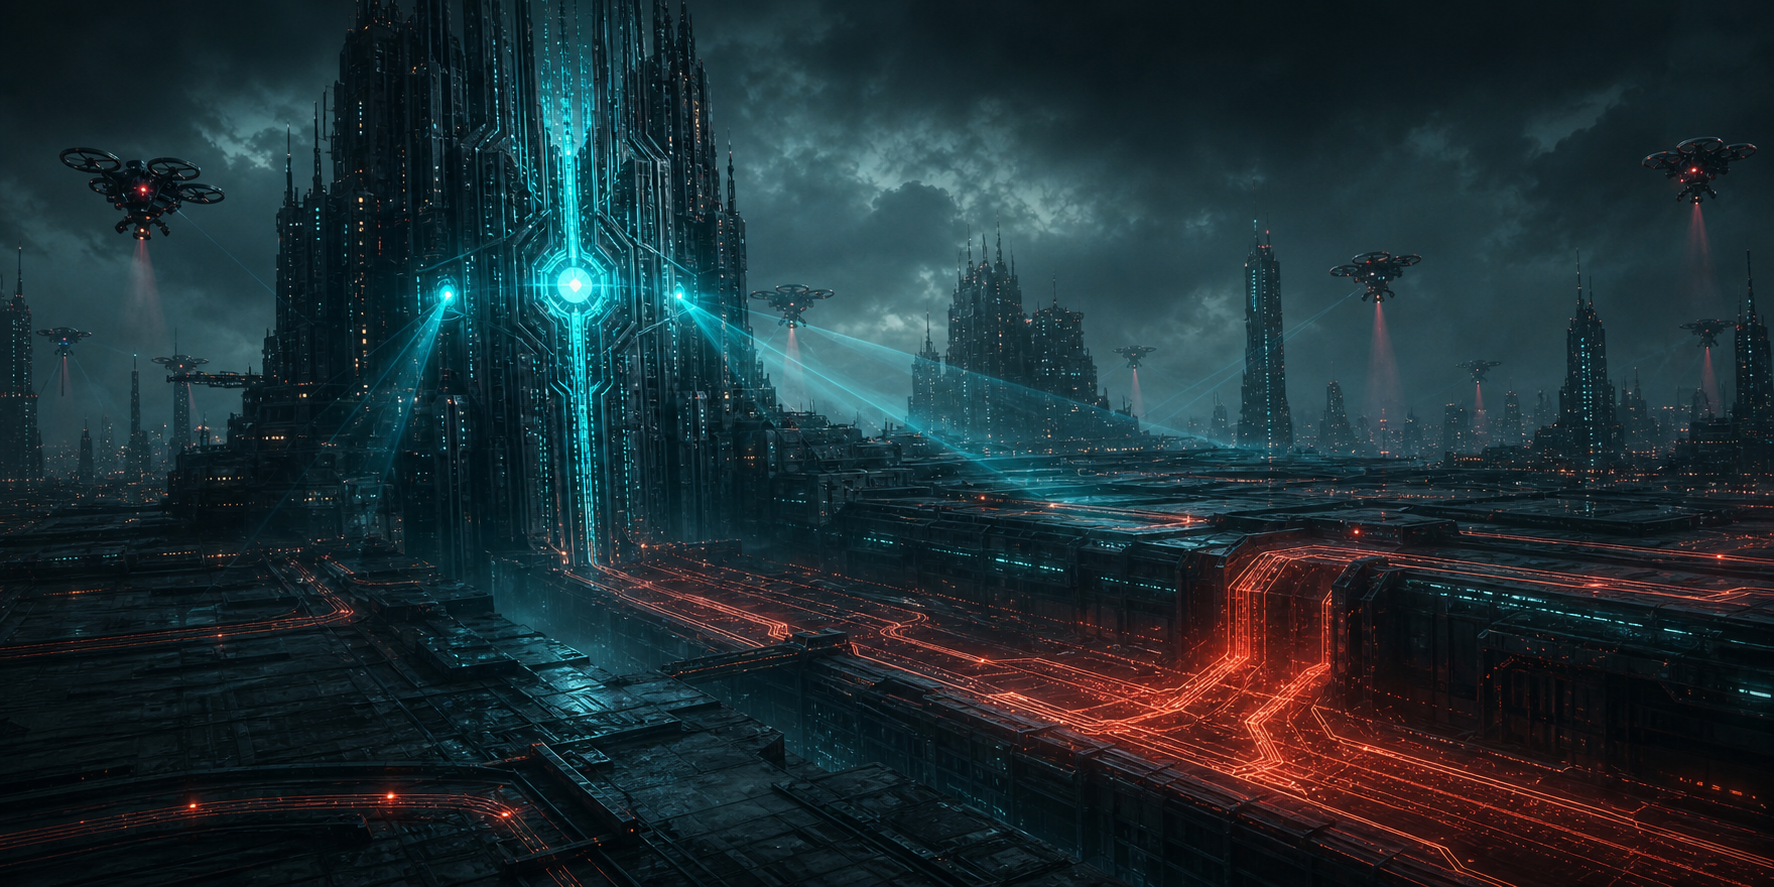
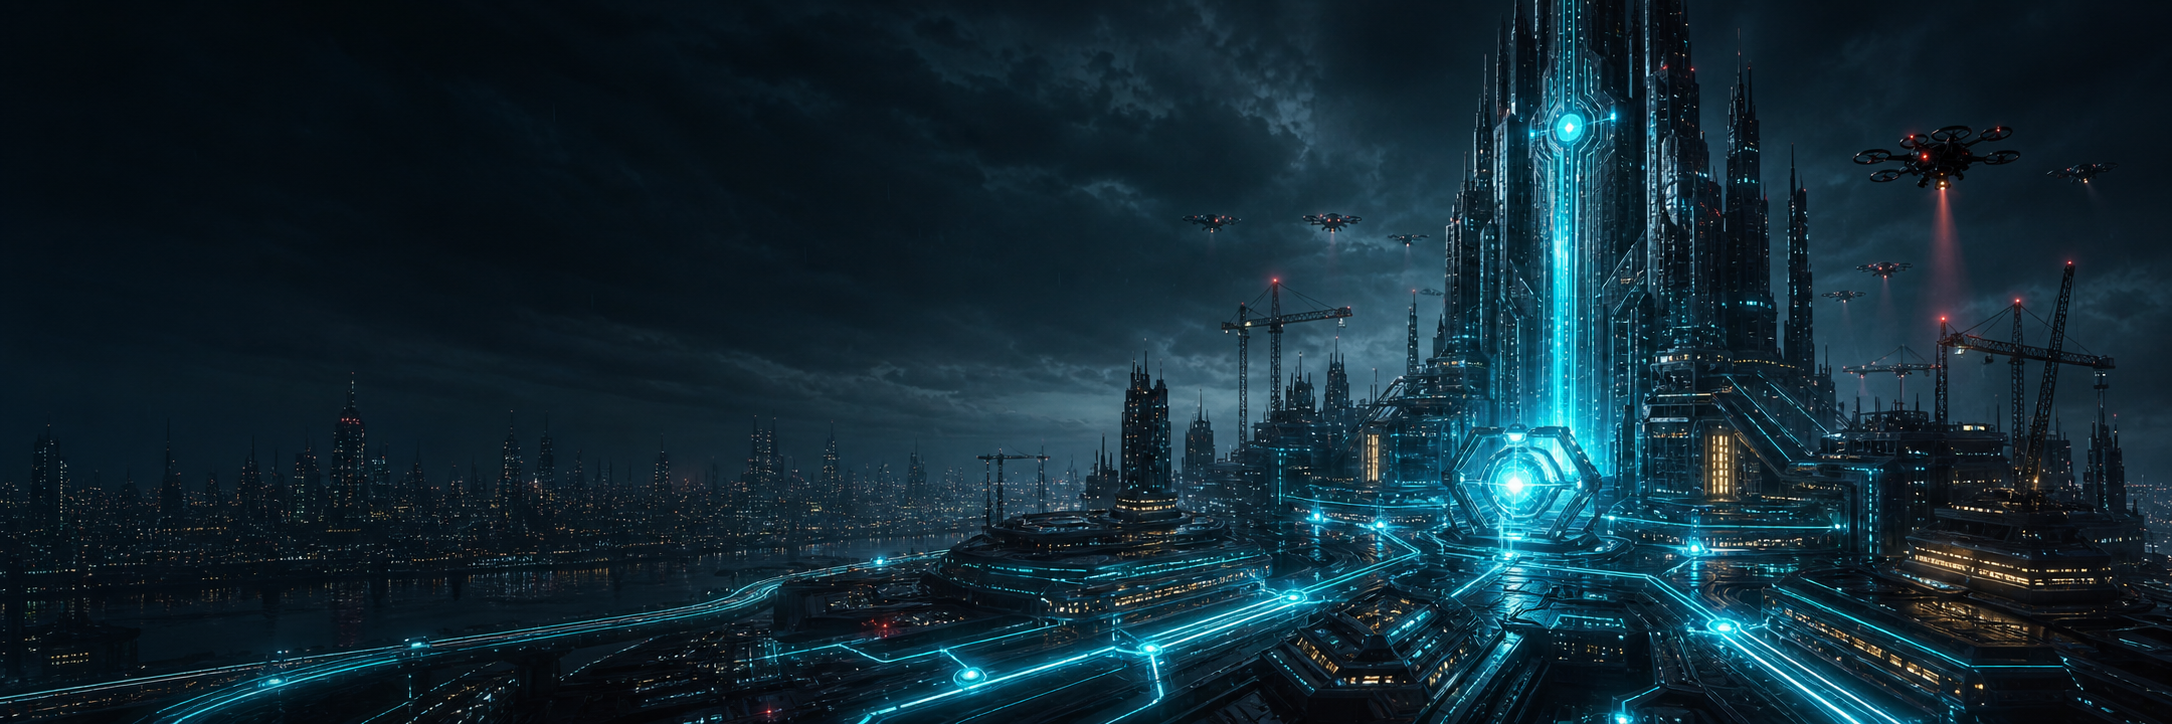
Improve result modal victory artwork

diff --git a/apps/web/app/globals.css b/apps/web/app/globals.css
@@ -6577,14 +6577,10 @@ select {
   z-index: 0;
 }
 
-.gameOverPanel.withMotifBackground::before {
+.gameOverPanel.withMotifHero::before {
   background:
-    linear-gradient(90deg, rgb(18 25 30 / 0.92) 0%, rgb(18 25 30 / 0.8) 44%, rgb(18 25 30 / 0.52) 100%),
-    linear-gradient(180deg, rgb(18 25 30 / 0.22), rgb(18 25 30 / 0.88)),
-    var(--result-panel-bg);
-  background-position: center;
-  background-size: cover;
-  opacity: 0.68;
+    linear-gradient(135deg, rgb(66 200 163 / 0.12), transparent 38%),
+    linear-gradient(315deg, rgb(240 106 91 / 0.11), transparent 42%);
 }
 
 .gameOverPanel > * {
@@ -6599,10 +6595,10 @@ select {
   gap: 18px;
 }
 
-.gameOverHero.backgroundOnly {
-  grid-template-columns: minmax(0, 1fr);
-  min-height: 150px;
-  align-items: end;
+.gameOverHero.withVisualMotif {
+  grid-template-columns: minmax(190px, 0.78fr) minmax(360px, 1.55fr);
+  align-items: stretch;
+  min-height: 186px;
 }
 
 .gameOverHeroCopy {
@@ -6622,6 +6618,7 @@ select {
 }
 
 .resultWinnerMotif {
+  position: relative;
   display: grid;
   justify-items: center;
   gap: 8px;
@@ -6633,6 +6630,28 @@ select {
   color: var(--muted);
   font-size: 12px;
   font-weight: 800;
+}
+
+.gameOverHero.withVisualMotif .resultWinnerMotif {
+  align-self: stretch;
+  min-height: 186px;
+  padding: 0;
+  border-color: rgb(255 255 255 / 0.22);
+  background: rgb(7 12 16 / 0.7);
+  box-shadow: inset 0 0 0 1px rgb(0 0 0 / 0.28), 0 14px 38px rgb(0 0 0 / 0.26);
+}
+
+.gameOverHero.withVisualMotif .resultWinnerMotif > span {
+  position: absolute;
+  width: 1px;
+  height: 1px;
+  padding: 0;
+  margin: -1px;
+  overflow: hidden;
+  white-space: nowrap;
+  border: 0;
+  clip: rect(0 0 0 0);
+  clip-path: inset(50%);
 }
 
 .resultMotifFrame {
@@ -6647,6 +6666,16 @@ select {
     linear-gradient(180deg, rgb(255 255 255 / 0.07) 1px, transparent 1px),
     rgb(11 16 21 / 0.72);
   background-size: 18px 18px;
+}
+
+.gameOverHero.withVisualMotif .resultMotifFrame {
+  width: 100%;
+  height: 100%;
+  min-height: 186px;
+  aspect-ratio: auto;
+  border: 0;
+  border-radius: 8px;
+  background: rgb(7 12 16 / 0.88);
 }
 
 .resultWinnerMotif.bitmap .resultMotifFrame {
@@ -6664,6 +6693,14 @@ select {
   width: 100%;
   height: 100%;
   object-fit: cover;
+}
+
+.resultWinnerMotif.runner .resultMotifFrame img {
+  object-position: 74% center;
+}
+
+.resultWinnerMotif.corp .resultMotifFrame img {
+  object-position: 68% center;
 }
 
 .resultMotifCore,
@@ -6779,6 +6816,11 @@ select {
 
 .resultWinnerMotif.draw .resultMotifTrack.two {
   transform: rotate(156deg);
+}
+
+.resultWinnerMotif.bitmap .resultMotifFrame::before,
+.resultWinnerMotif.bitmap .resultMotifFrame::after {
+  content: none;
 }
 
 .gameOverStats {
@@ -9850,12 +9892,25 @@ select,
     grid-template-columns: 1fr;
   }
 
+  .gameOverHero.withVisualMotif {
+    grid-template-columns: 1fr;
+    min-height: 0;
+  }
+
   .resultWinnerMotif {
     justify-self: stretch;
   }
 
+  .gameOverHero.withVisualMotif .resultWinnerMotif {
+    min-height: clamp(150px, 38vw, 220px);
+  }
+
   .resultMotifFrame {
     width: min(220px, 100%);
+  }
+
+  .gameOverHero.withVisualMotif .resultMotifFrame {
+    min-height: clamp(150px, 38vw, 220px);
   }
 
   .gameOverActions {

diff --git a/apps/web/app/page.tsx b/apps/web/app/page.tsx
@@ -5841,7 +5841,6 @@ function GameOverModal({
   const gameStanding = result.matchFormat === "two_game_side_swap" ? gameStandingForResult(result, side) : null;
   const winnerMotif = resultWinnerMotifFor(result.winner);
   const winnerMotifUi = resultWinnerMotifUi(winnerMotif);
-  const resultPanelStyle = winnerMotifUi.imageSrc ? ({ "--result-panel-bg": `url(${winnerMotifUi.imageSrc})` } as CSSProperties) : undefined;
   const retentionUi = retentionProtectionUi(retentionProtected);
   const exitUi = resultExitButtonUi(Boolean(onNextSeriesGame));
   const handleNewMatch = () => {
@@ -5856,14 +5855,14 @@ function GameOverModal({
   return (
     <div className={`gameOverOverlay ${result.viewerOutcome}`} role="dialog" aria-modal="true" aria-labelledby="game-over-title">
       <div className="gameOverBackdrop" aria-hidden="true" />
-      <section className={`gameOverPanel ${winnerMotifUi.imageSrc ? "withMotifBackground" : ""}`} style={resultPanelStyle}>
-        <div className={`gameOverHero ${winnerMotifUi.imageSrc ? "backgroundOnly" : ""}`}>
+      <section className={`gameOverPanel ${winnerMotifUi.imageSrc ? "withMotifHero" : ""}`}>
+        <div className={`gameOverHero ${winnerMotifUi.imageSrc ? "withVisualMotif" : ""}`}>
           <div className="gameOverHeroCopy">
             <p className="eyebrow">{matchFormatLabel(result.matchFormat)}</p>
             <h2 id="game-over-title">{outcomeText}</h2>
             <p>{resultReasonLabel(result.reason)}</p>
           </div>
-          {winnerMotifUi.imageSrc ? null : <ResultWinnerMotif motif={winnerMotif} />}
+          <ResultWinnerMotif motif={winnerMotif} />
         </div>
         {gameStanding ? (
           <div className="gameStandingStrip" aria-label="Spielwertung">
